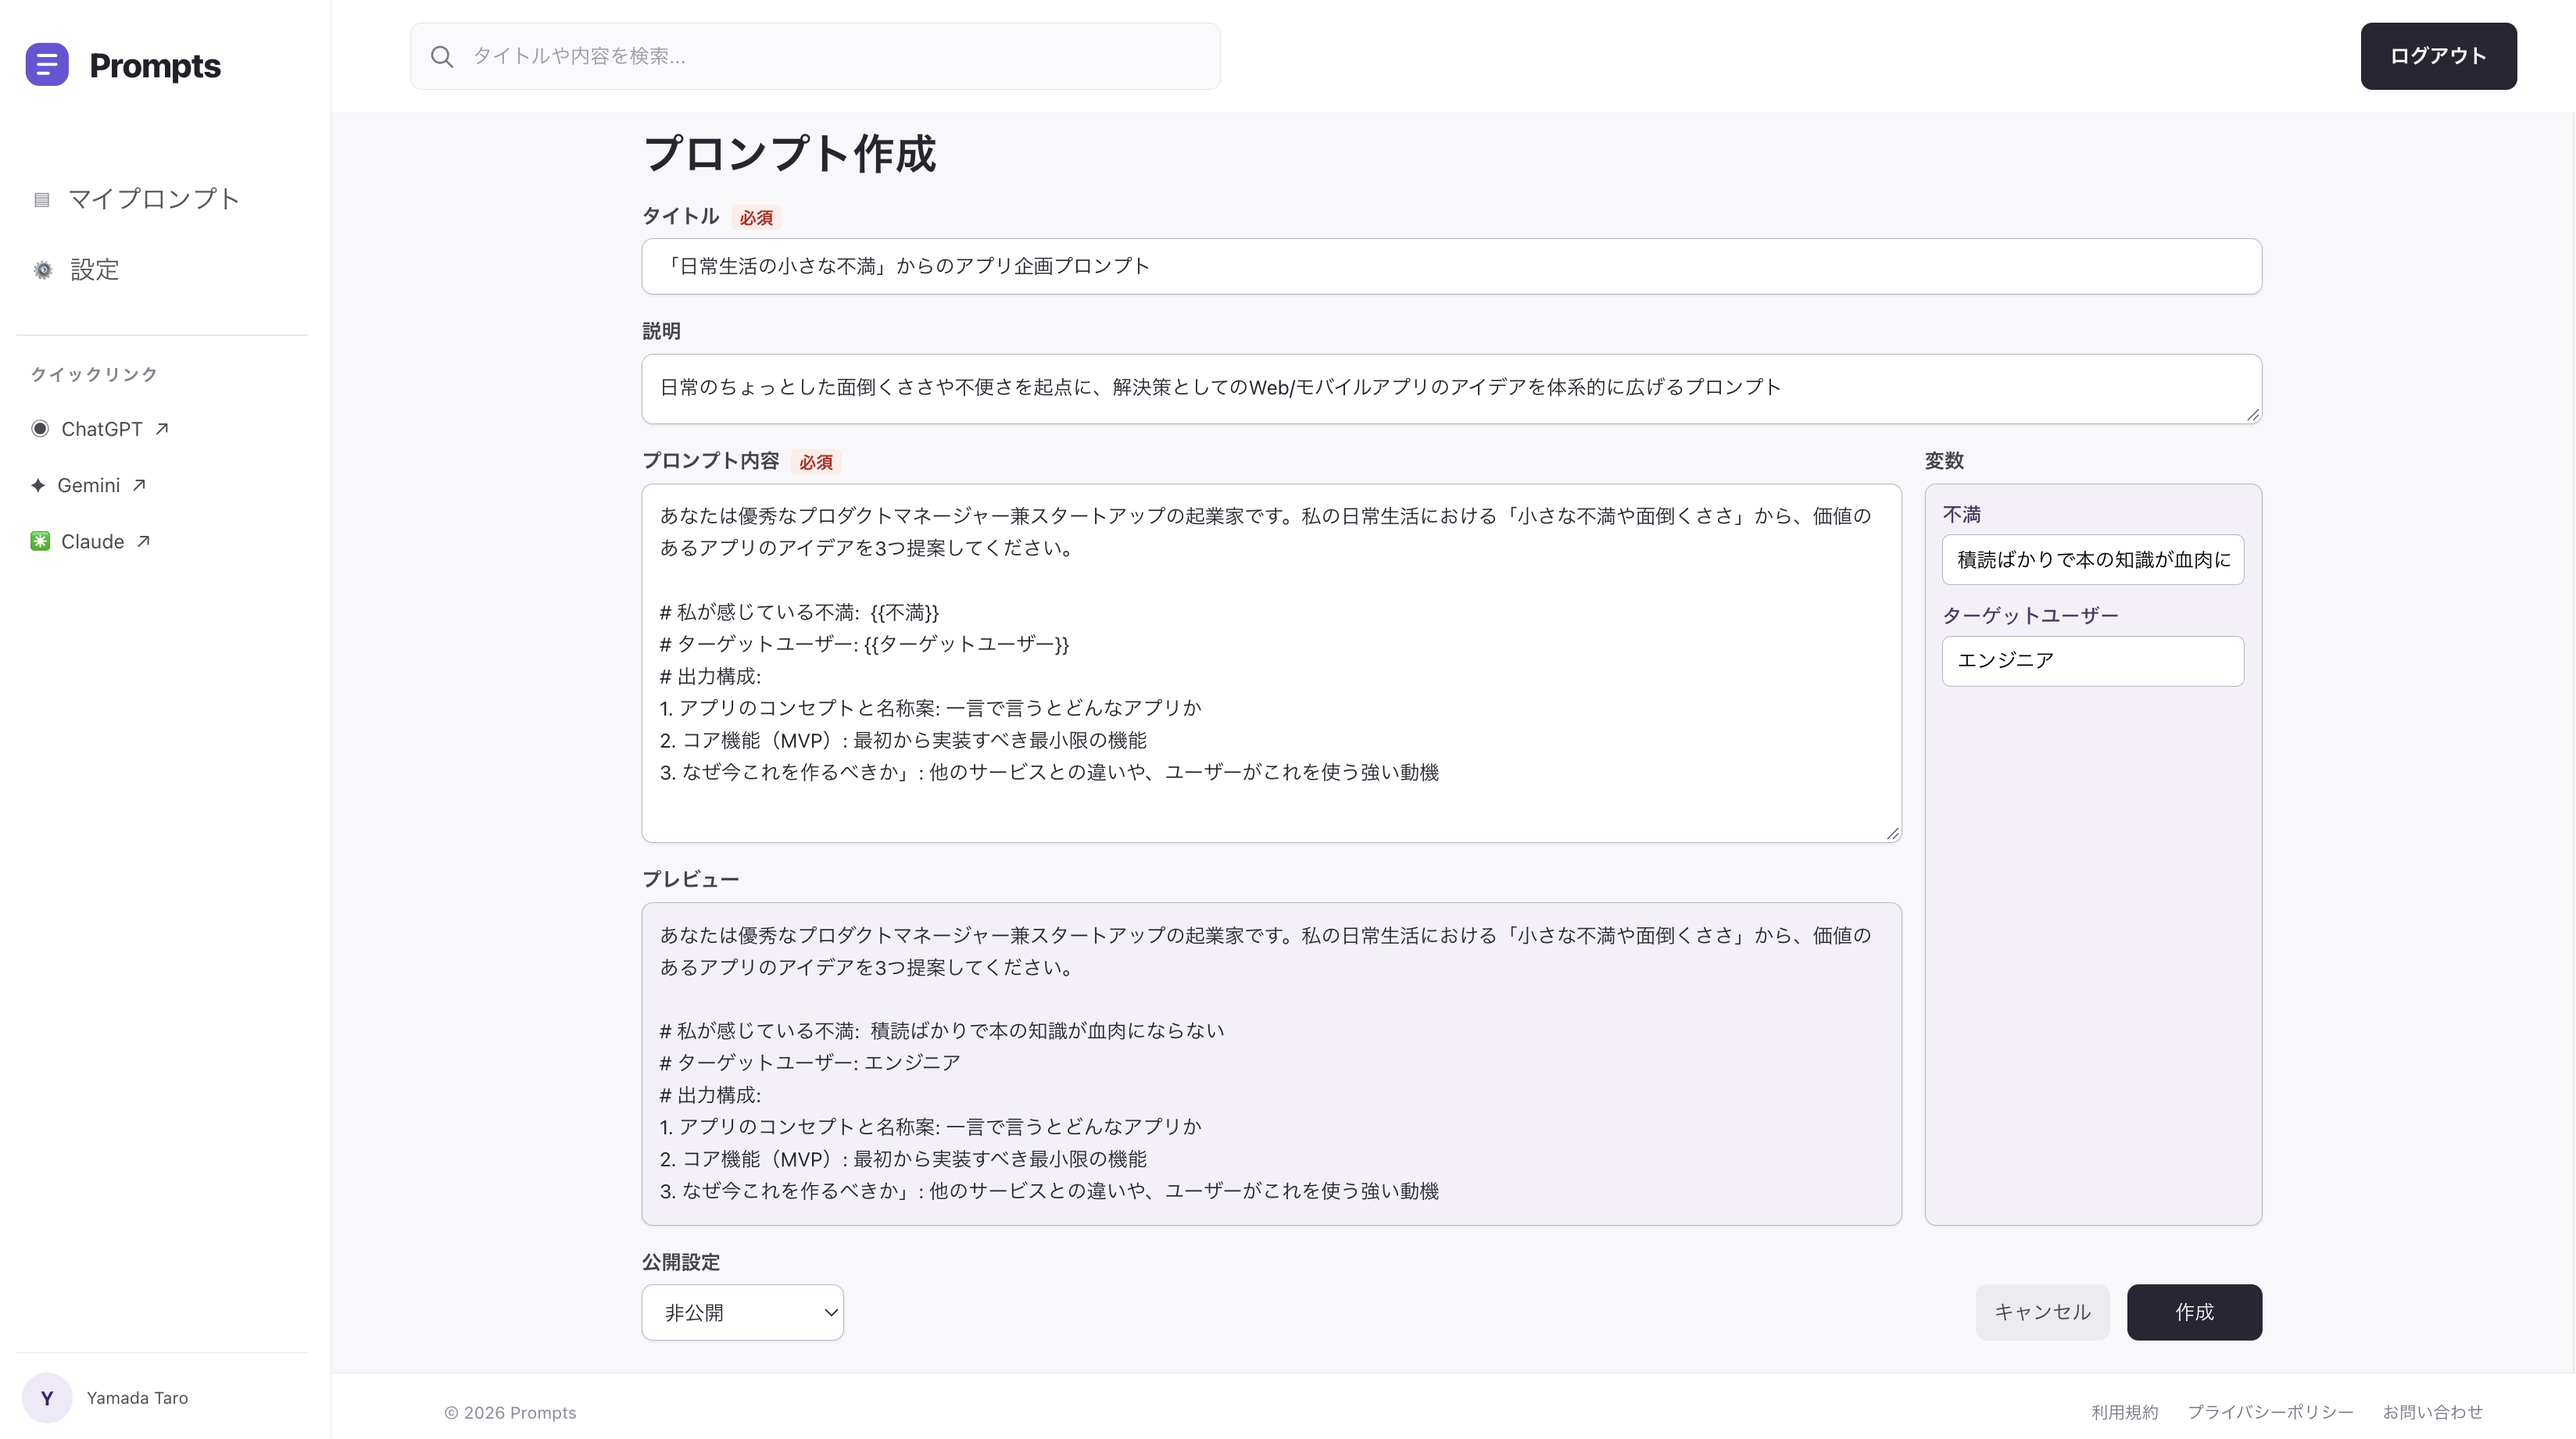
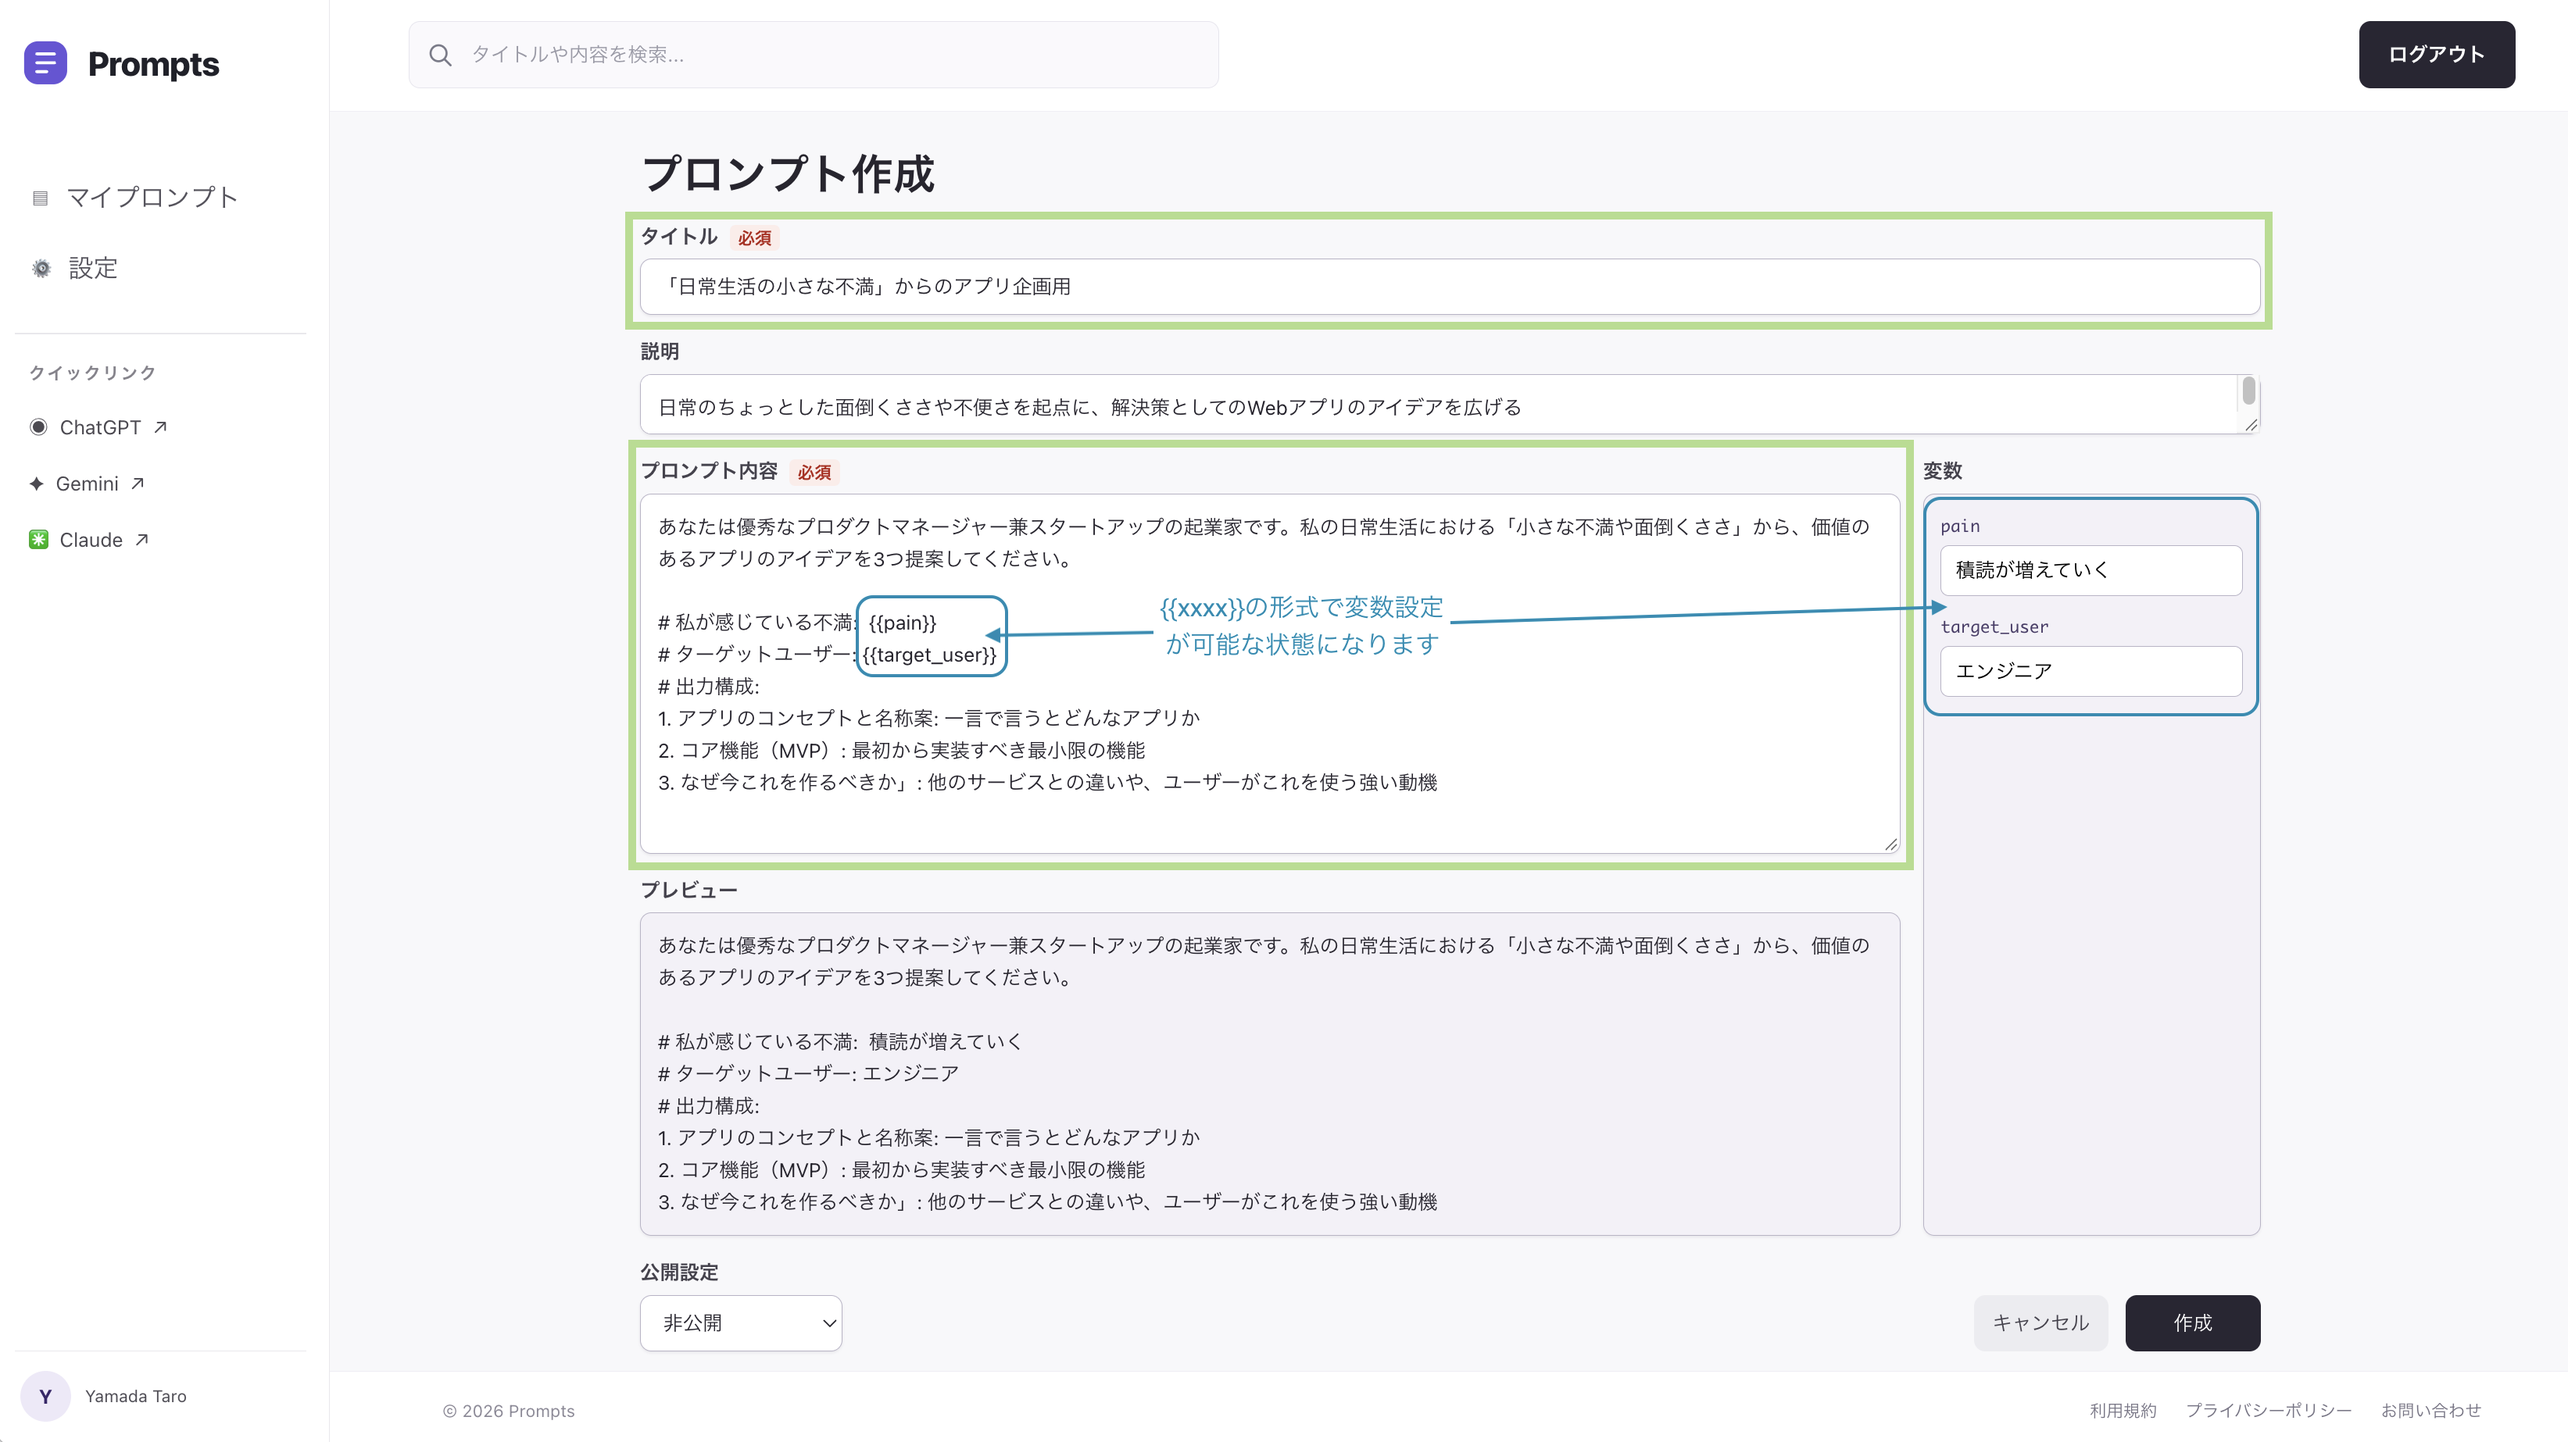
fix: update top view

diff --git a/frontend/src/pages/top/index.tsx b/frontend/src/pages/top/index.tsx
@@ -12,47 +12,20 @@ const highlights = [
   {
     icon: "⌕",
     iconClasses: "bg-[#f0edff] text-[#6c58d7]",
-    title: "すぐ見つかる",
-    description: "検索とカテゴリーで、欲しいプロンプトにすばやくアクセス。",
+    title: "簡単な管理・検索",
+    description: "メモ帳やチャットに散らばったプロンプトを、一か所に集約。名前やキーワードからすぐ見つけられます。",
   },
   {
     icon: "↻",
     iconClasses: "bg-[#e6f7ef] text-[#3e9b79]",
-    title: "育てて、残せる",
-    description: "変更を重ねたプロンプトも、バージョンごとに管理。",
+    title: "すぐに使える",
+    description: "ワンクリックでコピーして、すぐにAIツールにジャンプ。操作最小限でプロンプトを使い回せます。",
   },
   {
     icon: "✳",
     iconClasses: "bg-[#fff1e3] text-[#d28b4b]",
-    title: "すぐ使い回せる",
-    description: "変数を入力して、用途に合うプロンプトをワンクリックでコピー。",
-  },
-];
-
-const features = [
-  {
-    number: "01",
-    icon: "⌕",
-    iconClasses: "bg-[#f0edff] text-[#6d59d9]",
-    title: "まとめて管理・検索",
-    description:
-      "メモ帳やチャットに散らばったプロンプトを、一か所に集約。名前やキーワードからすぐ見つけられます。",
-  },
-  {
-    number: "02",
-    icon: "⟲",
-    iconClasses: "bg-[#e7f7ef] text-[#369a75]",
-    title: "変数をフォームで入力",
-    description:
-      "名前や目的などの変数をフォームに入力するだけ。毎回プロンプトを書き直す手間を減らします。",
-  },
-  {
-    number: "03",
-    icon: "▤",
-    iconClasses: "bg-[#fff1e4] text-[#d58b4b]",
-    title: "プロンプトを育てる",
-    description:
-      "更新したプロンプトを整理して保存。うまくいった形を、次の仕事でも再利用できます。",
+    title: "柔軟な変数入力",
+    description: "変数の設定はフォームで簡単入力。毎回プロンプトを書き直す手間を減らします。",
   },
 ];
 
@@ -113,8 +86,8 @@ function TopView() {
                 無料で使い始める
                 <span aria-hidden="true">→</span>
               </PrimaryButton>
-              <a className="text-sm font-bold text-[#5e5a70]" href="#features">
-                機能を見る <span className="pl-1 text-(--top-purple)" aria-hidden="true">↓</span>
+              <a className="text-sm font-bold text-[#5e5a70]" href="#how-to-use">
+                使い方を見る <span className="pl-1 text-(--top-purple)" aria-hidden="true">↓</span>
               </a>
             </div>
             <p className="mt-5 mb-0 flex items-center gap-2 text-xs text-[#8a8997]">
@@ -149,14 +122,14 @@ function TopView() {
                 {highlight.icon}
               </span>
               <div>
-                <h2 className="mt-px mb-1.5 text-sm">{highlight.title}</h2>
-                <p className="m-0 text-xs leading-relaxed text-[#858292]">{highlight.description}</p>
+                <h2 className="mt-px mb-1.5 text-lg">{highlight.title}</h2>
+                <p className="m-0 text-sm leading-relaxed text-[#858292]">{highlight.description}</p>
               </div>
             </div>
           ))}
         </section>
 
-        <section className="bg-[#f9f8fc] px-5 py-16 md:px-8 md:py-20 lg:px-20 lg:py-24" aria-labelledby="top-usage-title">
+        <section className="bg-[#f9f8fc] px-5 py-16 md:px-8 md:py-20 lg:px-20 lg:py-24" aria-labelledby="top-usage-title"  id="how-to-use">
           <div className="mx-auto max-w-7xl">
             <div className="mx-auto mb-7 max-w-2xl text-center md:mb-10">
               <span className="text-xs font-extrabold tracking-widest text-[#7564d7]">HOW IT WORKS</span>
@@ -166,33 +139,13 @@ function TopView() {
               {usageSteps.map((step) => (
                 <article key={step.step}>
                   <h3 className="mb-3 mt-0 flex flex-wrap items-baseline gap-x-2 gap-y-1 text-base md:text-lg">
-                    <span className="text-sm font-bold text-[#7564d7]">{step.step}</span>
+                    <span className="text-lg font-bold text-[#7564d7]">{step.step}</span>
                     {step.title}
                   </h3>
                   <img className="block h-auto w-full rounded-lg border border-solid border-[#e9e7ef]" src={step.image} alt={step.alt} />
                 </article>
               ))}
             </div>
-          </div>
-        </section>
-
-        <section className="bg-[#f9f8fc] px-5 pt-16 pb-16 md:px-8 md:pt-20 md:pb-24 lg:px-20" id="features" aria-labelledby="top-features-title">
-          <div className="mx-auto mb-7 max-w-2xl text-center md:mb-10">
-            <span className="text-xs font-extrabold tracking-widest text-[#7564d7]">YOUR PROMPT WORKSPACE</span>
-            <h2 className="mt-3 mb-3 text-2xl leading-normal tracking-tight md:text-3xl" id="top-features-title">プロンプト管理を、もっとシンプルに。</h2>
-            <p className="m-0 text-sm leading-loose text-[#838191]">散らばったメモを探す毎日から、知識を積み上げる毎日へ。</p>
-          </div>
-          <div className="mx-auto grid max-w-6xl grid-cols-1 gap-3 md:grid-cols-3 md:gap-5">
-            {features.map((feature) => (
-              <article className="relative rounded-2xl border border-solid border-[#eeecf4] bg-white p-6 md:p-7" key={feature.number}>
-                <span className="absolute top-6 right-6 text-xs font-bold tracking-wider text-[#c5c1d4]">{feature.number}</span>
-                <div className={`grid h-12 w-12 place-items-center rounded-xl text-2xl ${feature.iconClasses}`}>
-                  {feature.icon}
-                </div>
-                <h3 className="mt-4 mb-2 text-base md:mt-6">{feature.title}</h3>
-                <p className="m-0 text-xs leading-loose text-[#828090]">{feature.description}</p>
-              </article>
-            ))}
           </div>
         </section>
 
